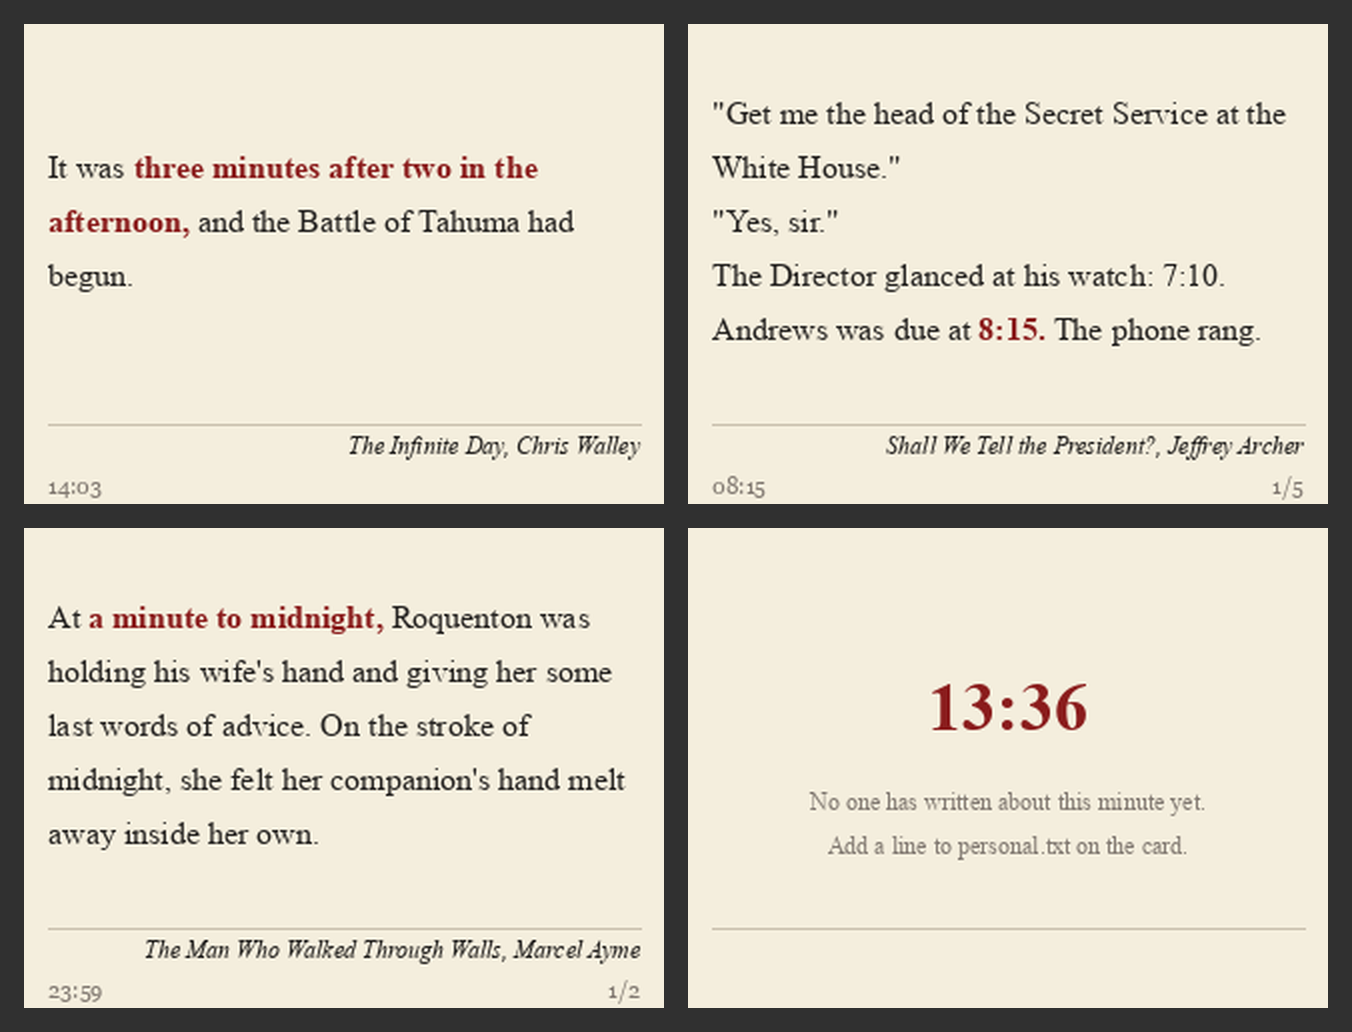
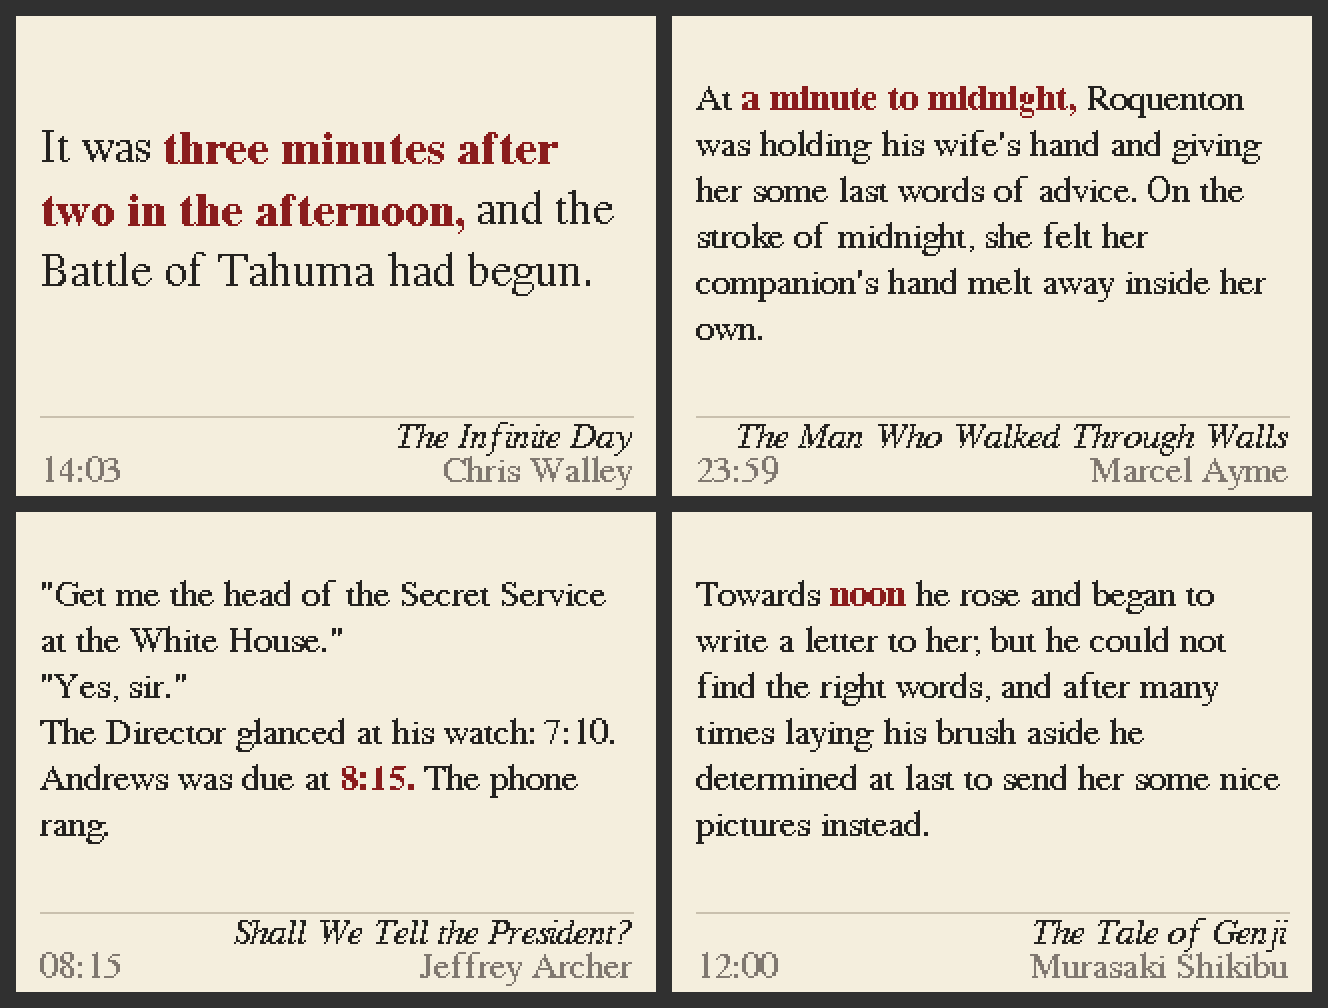
Fix word spacing and line height; one ranked quote per minute; pixel-exact preview tool
TFT_eSPI reports textWidth(" ") as 0 for GFX fonts, so words were drawn
with no gap. Measure the space advance instead, derive line height from
the font's yAdvance, and stop passing a background colour so glyph boxes
no longer overdraw neighbours. Quotes for a minute are now ranked and the
best shown; the counter is gone and the footer shows title and author on
separate lines. tools/preview.py renders the screen with the real bitmap
fonts for tuning on the Mac.

Changed region(s): [[0.0, 0.0, 0.988, 0.9841], [0.5248, 0.5843, 0.9262, 0.7381], [0.494, 0.5536, 0.5248, 0.5843]]

diff --git a/tools/preview.py b/tools/preview.py
@@ -1,0 +1,219 @@
+#!/usr/bin/env python3
+"""Pixel-exact preview of the clock screen, rendered on the Mac.
+
+Uses the very same Adafruit GFX bitmap fonts that TFT_eSPI compiles into the
+firmware and mirrors display.cpp's layout rules, so what you see here is what
+the panel shows. Handy for tuning spacing without reflashing.
+
+  tools/preview.py                     # current minute
+  tools/preview.py 08:15 23:59 13:36   # specific minutes (up to 4 on a sheet)
+  tools/preview.py --out shot.png --scale 3
+"""
+import argparse
+import datetime
+import re
+import struct
+import sys
+from pathlib import Path
+from PIL import Image, ImageDraw
+
+ROOT = Path(__file__).resolve().parent.parent
+FONT_DIR = Path.home() / "Documents/Arduino/libraries/TFT_eSPI/Fonts/GFXFF"
+CARD = ROOT / "sdcard" / "literaryclock"
+
+# ---- layout constants: keep in step with display.cpp ----
+W, H = 320, 240
+MARGIN_X, TOP, FOOTER_H = 12, 10, 40
+BODY_W = W - 2 * MARGIN_X
+BODY_H = H - FOOTER_H - TOP - 4
+SIZES = [("FreeSerif12pt7b", "FreeSerifBold12pt7b"), ("FreeSerif9pt7b", "FreeSerifBold9pt7b")]
+LEADING = [2, 1]            # extra pixels added to each font's yAdvance (same as display.cpp)
+PAPER, INK, ACCENT, GREY, RULE = (0xF4, 0xEE, 0xDD), (0x24, 0x22, 0x20), (0x8A, 0x1C, 0x1C), (0x80, 0x78, 0x70), (0xC9, 0xC0, 0xAE)
+
+
+class GFXFont:
+    """Parses an Adafruit GFX font .h file."""
+    def __init__(self, name):
+        src = (FONT_DIR / f"{name}.h").read_text()
+        bm = re.search(r"Bitmaps\[\] PROGMEM = \{(.*?)\};", src, re.S).group(1)
+        self.bitmaps = bytes(int(x, 16) for x in re.findall(r"0x[0-9A-Fa-f]{2}", bm))
+        gl = re.search(r"Glyphs\[\] PROGMEM = \{(.*?)\};", src, re.S).group(1)
+        self.glyphs = [tuple(int(v) for v in m) for m in re.findall(r"\{\s*(\d+),\s*(\d+),\s*(\d+),\s*(\d+),\s*(-?\d+),\s*(-?\d+)\s*\}", gl)]
+        hdr = re.search(r"GFXfont \w+ PROGMEM = \{.*?(0x[0-9A-Fa-f]+),\s*(0x[0-9A-Fa-f]+),\s*(\d+)\s*\}", src, re.S)
+        self.first, self.last, self.yAdvance = int(hdr.group(1), 16), int(hdr.group(2), 16), int(hdr.group(3))
+        # TFT_eSPI setFreeFont: max ascent / descent over all glyphs
+        self.ab = max(-yo for (_, _, h, _, _, yo) in self.glyphs)
+        self.bb = max(h + yo for (_, _, h, _, _, yo) in self.glyphs)
+
+    def glyph(self, ch):
+        c = ord(ch)
+        if c < self.first or c > self.last:
+            return None
+        return self.glyphs[c - self.first]
+
+    def text_width(self, s):          # mirrors TFT_eSPI::textWidth for GFX fonts
+        w = 0
+        for i, ch in enumerate(s):
+            g = self.glyph(ch)
+            if not g:
+                continue
+            off, gw, gh, xadv, xo, yo = g
+            w += xadv if i < len(s) - 1 else (xo + gw)
+        return w
+
+    def draw(self, img, x, y, s, colour):   # TL datum: y is the top of the tallest glyph
+        px = img.load()
+        base = y + self.ab
+        for ch in s:
+            g = self.glyph(ch)
+            if not g:
+                continue
+            off, gw, gh, xadv, xo, yo = g
+            bit = 0
+            for yy in range(gh):
+                for xx in range(gw):
+                    byte = self.bitmaps[off + bit // 8]
+                    if byte & (0x80 >> (bit % 8)):
+                        X, Y = x + xo + xx, base + yo + yy
+                        if 0 <= X < img.width and 0 <= Y < img.height:
+                            px[X, Y] = colour
+                    bit += 1
+            x += xadv
+        return x
+
+
+FONTS = {}
+def font(name):
+    if name not in FONTS:
+        FONTS[name] = GFXFont(name)
+    return FONTS[name]
+
+
+def load_quotes(minute):
+    idx = (CARD / "quotes.idx").read_bytes()[8:]
+    data = (CARD / "quotes.txt").read_bytes()
+    off, cnt = struct.unpack_from("<IH", idx, minute * 6)
+    out, pos = [], off
+    for _ in range(cnt):
+        end = data.index(b"\n", pos)
+        out.append(data[pos:end].decode().split("|"))
+        pos = end + 1
+    return out
+
+
+def tokenize(text):
+    toks, cur, in_phrase, cur_bold = [], "", False, False
+    def flush():
+        nonlocal cur, cur_bold
+        if cur:
+            toks.append((cur, cur_bold, False)); cur = ""
+        cur_bold = False
+    for c in text.replace("\\n", "\n"):
+        if c == "{": in_phrase = True; continue
+        if c == "}": in_phrase = False; continue
+        if c in " \n":
+            flush()
+            if c == "\n": toks.append(("", False, True))
+            continue
+        if in_phrase: cur_bold = True
+        cur += c
+    flush()
+    return toks
+
+
+def layout(toks, size):
+    reg, bold = font(SIZES[size][0]), font(SIZES[size][1])
+    space = reg.glyph(" ")[3]          # xAdvance of a space, as display.cpp measures it
+    lines, cur, x = [], [], 0
+    for word, b, para in toks:
+        if para:
+            lines.append(cur); cur, x = [], 0; continue
+        w = (bold if b else reg).text_width(word)
+        if x > 0 and x + w > BODY_W:
+            lines.append(cur); cur, x = [], 0
+        cur.append((x, word, b)); x += w + space
+    if cur: lines.append(cur)
+    return lines
+
+
+def render(minute, show_time=True, hhmm=None):
+    img = Image.new("RGB", (W, H), PAPER)
+    d = ImageDraw.Draw(img)
+    qs = load_quotes(minute)
+    hhmm = hhmm or f"{minute // 60:02d}:{minute % 60:02d}"
+    if not qs:
+        big = font("FreeSerifBold24pt7b")
+        big.draw(img, (W - big.text_width(hhmm)) // 2, 70, hhmm, ACCENT)
+        sm = font("FreeSerif9pt7b")
+        for i, t in enumerate(["No one has written about this minute yet.", "Add a line to personal.txt on the card."]):
+            sm.draw(img, (W - sm.text_width(t)) // 2, 130 + 22 * i, t, GREY)
+        d.line([(MARGIN_X, H - FOOTER_H), (W - MARGIN_X, H - FOOTER_H)], fill=RULE)
+        return img
+    def score(q):
+        _, text, title, author, sfw = q
+        n = len(text.replace("{", "").replace("}", "")); s = 0
+        if 90 <= n <= 330: s += 3
+        elif n < 60 or n > 400: s -= 2
+        if sfw == "0": s -= 3
+        elif sfw == "1": s += 1
+        if "\\n" in text: s -= 1
+        if text.startswith("{"): s -= 1
+        return s
+    qs.sort(key=score, reverse=True)
+    _, text, title, author, sfw = qs[0]
+    toks = tokenize(text)
+    for size in range(len(SIZES)):
+        lines = layout(toks, size)
+        line_h = font(SIZES[size][0]).yAdvance + LEADING[size]
+        if len(lines) * line_h <= BODY_H:
+            break
+    else:
+        size = len(SIZES) - 1
+        line_h = font(SIZES[size][0]).yAdvance + LEADING[size]
+        lines = lines[: BODY_H // line_h]
+        if lines and lines[-1]:
+            x, w, b = lines[-1][-1]; lines[-1][-1] = (x, w + " ...", b)
+    reg, bold = font(SIZES[size][0]), font(SIZES[size][1])
+    y = TOP + (BODY_H - len(lines) * line_h) // 2
+    for ln in lines:
+        for x, word, b in ln:
+            (bold if b else reg).draw(img, MARGIN_X + x, y, word, ACCENT if b else INK)
+        y += line_h
+    # footer
+    d.line([(MARGIN_X, H - FOOTER_H), (W - MARGIN_X, H - FOOTER_H)], fill=RULE)
+    it = font("FreeSerifItalic9pt7b")
+    t = title
+    while it.text_width(t) > BODY_W - 4 and len(t) > 4:
+        t = t[:-4] + "..."
+    it.draw(img, W - MARGIN_X - it.text_width(t), H - FOOTER_H + 3, t, INK)
+    # built-in font 2 (16 px sans) approximated with the 9pt serif in grey
+    sm = font("FreeSerif9pt7b")
+    if show_time:
+        sm.draw(img, MARGIN_X, H - 20, hhmm, GREY)
+    sm.draw(img, W - MARGIN_X - sm.text_width(author), H - 20, author, GREY)
+    return img
+
+
+def main():
+    ap = argparse.ArgumentParser(description=__doc__, formatter_class=argparse.RawDescriptionHelpFormatter)
+    ap.add_argument("times", nargs="*", help="HH:MM values (default: now)")
+    ap.add_argument("--out", default=str(ROOT / "docs" / "preview.png"))
+    ap.add_argument("--scale", type=int, default=2)
+    args = ap.parse_args()
+    times = args.times or [datetime.datetime.now().strftime("%H:%M")]
+    frames = []
+    for t in times[:4]:
+        h, m = map(int, t.split(":"))
+        frames.append(render(h * 60 + m))
+    S, pad = args.scale, 16
+    cols = 1 if len(frames) == 1 else 2
+    rows = (len(frames) + cols - 1) // cols
+    sheet = Image.new("RGB", (cols * W * S + (cols + 1) * pad, rows * H * S + (rows + 1) * pad), (0x30, 0x30, 0x30))
+    for i, f in enumerate(frames):
+        sheet.paste(f.resize((W * S, H * S), Image.NEAREST), (pad + (i % cols) * (W * S + pad), pad + (i // cols) * (H * S + pad)))
+    sheet.save(args.out)
+    print("wrote", args.out, "fonts:", {k: (v.yAdvance, v.ab, v.bb) for k, v in FONTS.items()})
+
+
+if __name__ == "__main__":
+    sys.exit(main())

diff --git a/literaryclock/display.cpp b/literaryclock/display.cpp
@@ -16,7 +16,7 @@ static const int BODY_H = H - FOOTER_H - TOP - 4;
 
 static const GFXfont* REGULAR[] = { &FreeSerif12pt7b, &FreeSerif9pt7b };
 static const GFXfont* BOLD[]    = { &FreeSerifBold12pt7b, &FreeSerifBold9pt7b };
-static const int      LINE_H[]  = { 27, 21 };
+static const int      LEADING[] = { 2, 1 };      // pixels added to each font's yAdvance
 static const int      SIZES     = 2;
 
 void displayBegin() {
@@ -63,7 +63,7 @@ String formatTime(const struct tm& now) {
 void drawCentered(const String& text, int y, const GFXfont* font, uint8_t colour) {
   spr.setFreeFont(font);
   spr.setTextDatum(TC_DATUM);
-  spr.setTextColor(colour, C_PAPER);
+  spr.setTextColor(colour);
   spr.drawString(text, W / 2, y);
 }
 
@@ -117,7 +117,8 @@ static void tokenize(const String& text, std::vector<Tok>& toks) {
 static int layout(const std::vector<Tok>& toks, int size, std::vector<Line>& lines) {
   lines.clear();
   spr.setFreeFont(REGULAR[size]);
-  int spaceW = spr.textWidth(" ");
+  // textWidth(" ") is 0 for GFX fonts (a lone space has no ink), so measure the advance instead.
+  int spaceW = spr.textWidth(" .") - spr.textWidth(".");
   Line cur; int x = 0;
   for (const Tok& t : toks) {
     if (t.paragraph) { lines.push_back(cur); cur = Line(); x = 0; continue; }
@@ -139,25 +140,20 @@ void drawFooterStatus(const struct tm& now, bool wifiOk, const String& right) {
   String left;
   if (config.showTime) left = formatTime(now);
   if (!wifiOk) left += left.isEmpty() ? "no wifi" : "  no wifi";
-  spr.setTextColor(wifiOk ? C_GREY : C_BAD, C_PAPER);
-  spr.drawString(left, MARGIN_X, H - 4);
+  spr.setTextColor(wifiOk ? C_GREY : C_BAD);
+  spr.drawString(left, MARGIN_X, H - 3);
   spr.setTextDatum(BR_DATUM);
-  spr.setTextColor(C_GREY, C_PAPER);
-  spr.drawString(right, W - MARGIN_X, H - 4);
+  spr.setTextColor(C_GREY);
+  spr.drawString(right, W - MARGIN_X, H - 3);
 }
 
 static void drawAttribution(const Quote& q) {
-  String attr = q.title;
-  if (!q.author.isEmpty()) attr += ", " + q.author;
+  String title = q.title;
   spr.setFreeFont(&FreeSerifItalic9pt7b);
   spr.setTextDatum(TR_DATUM);
-  spr.setTextColor(C_INK, C_PAPER);
-  int y = H - FOOTER_H + 4;
-  if (spr.textWidth(attr) > BODY_W - 4) {
-    spr.setTextFont(2);
-    while (attr.length() > 4 && spr.textWidth(attr) > BODY_W - 4) attr = attr.substring(0, attr.length() - 4) + "...";
-  }
-  spr.drawString(attr, W - MARGIN_X, y);
+  spr.setTextColor(C_INK);
+  while (title.length() > 4 && spr.textWidth(title) > BODY_W - 4) title = title.substring(0, title.length() - 4) + "...";
+  spr.drawString(title, W - MARGIN_X, H - FOOTER_H + 3);
 }
 
 void showQuote(const Quote& q, const struct tm& now, bool wifiOk, int index, int count) {
@@ -165,18 +161,22 @@ void showQuote(const Quote& q, const struct tm& now, bool wifiOk, int index, int
   tokenize(q.text, toks);
   std::vector<Line> lines;
   int size = 0, n = 0;
+  int lineH = 0;
   for (size = 0; size < SIZES; size++) {
     n = layout(toks, size, lines);
-    if (n * LINE_H[size] <= BODY_H) break;
+    spr.setFreeFont(REGULAR[size]);
+    lineH = spr.fontHeight() + LEADING[size];
+    if (n * lineH <= BODY_H) break;
   }
   if (size == SIZES) {                       // still too long: truncate at the smallest size
     size = SIZES - 1;
-    int maxLines = BODY_H / LINE_H[size];
+    spr.setFreeFont(REGULAR[size]);
+    lineH = spr.fontHeight() + LEADING[size];
+    int maxLines = BODY_H / lineH;
     lines.resize(maxLines);
     if (!lines.back().runs.empty()) lines.back().runs.back().text += " ...";
     n = maxLines;
   }
-  int lineH = LINE_H[size];
   int total = n * lineH;
   int y = TOP + (BODY_H - total) / 2;
 
@@ -185,15 +185,13 @@ void showQuote(const Quote& q, const struct tm& now, bool wifiOk, int index, int
   for (const Line& ln : lines) {
     for (const Run& r : ln.runs) {
       spr.setFreeFont(r.bold ? BOLD[size] : REGULAR[size]);
-      spr.setTextColor(r.bold ? C_ACCENT : C_INK, C_PAPER);
+      spr.setTextColor(r.bold ? C_ACCENT : C_INK);
       spr.drawString(r.text, MARGIN_X + r.x, y);
     }
     y += lineH;
   }
   drawAttribution(q);
-  String right = String(index + 1) + "/" + String(count);
-  if (q.personal) right = "personal " + right;
-  drawFooterStatus(now, wifiOk, right);
+  drawFooterStatus(now, wifiOk, q.author);
   spr.pushSprite(0, 0);
 }
 

diff --git a/literaryclock/storage.cpp b/literaryclock/storage.cpp
@@ -1,6 +1,7 @@
 #include "storage.h"
 #include <SPI.h>
 #include <SD.h>
+#include <algorithm>
 
 // CYD SD slot is on VSPI with these pins. Touch is bit-banged so the bus is ours.
 static const int SD_SCK = 18, SD_MISO = 19, SD_MOSI = 23, SD_CS = 5;
@@ -156,6 +157,17 @@ static void appendPersonal(int minuteOfDay, std::vector<Quote>& out) {
   f.close();
 }
 
+// Higher is better: a readable length, safe, single paragraph, phrase not at the very start.
+int quoteScore(const Quote& q) {
+  int s = 0, n = q.text.length();
+  if (n >= 90 && n <= 330) s += 3; else if (n < 60 || n > 400) s -= 2;
+  if (q.sfw == '0') s -= 3; else if (q.sfw == '1') s += 1;
+  if (q.text.indexOf('\n') >= 0) s -= 1;
+  if (q.text.startsWith("{")) s -= 1;
+  if (q.personal) s += 10;
+  return s;
+}
+
 std::vector<Quote> quotesForMinute(int minuteOfDay, bool sfwOnly) {
   std::vector<Quote> out;
   appendPersonal(minuteOfDay, out);
@@ -172,5 +184,6 @@ std::vector<Quote> quotesForMinute(int minuteOfDay, bool sfwOnly) {
     out.push_back(q);
   }
   f.close();
+  std::stable_sort(out.begin(), out.end(), [](const Quote& a, const Quote& b) { return quoteScore(a) > quoteScore(b); });
   return out;
 }

diff --git a/literaryclock/storage.h b/literaryclock/storage.h
@@ -17,4 +17,5 @@ bool        quotesFilePresent();
 // Loads quotes.idx, or rebuilds it by scanning quotes.txt when it is missing or stale.
 bool        ensureIndex(void (*progress)(int percent));
 int         quoteCountForMinute(int minuteOfDay);
-std::vector<Quote> quotesForMinute(int minuteOfDay, bool sfwOnly);
+std::vector<Quote> quotesForMinute(int minuteOfDay, bool sfwOnly);   // best quote first
+int         quoteScore(const Quote& q);
